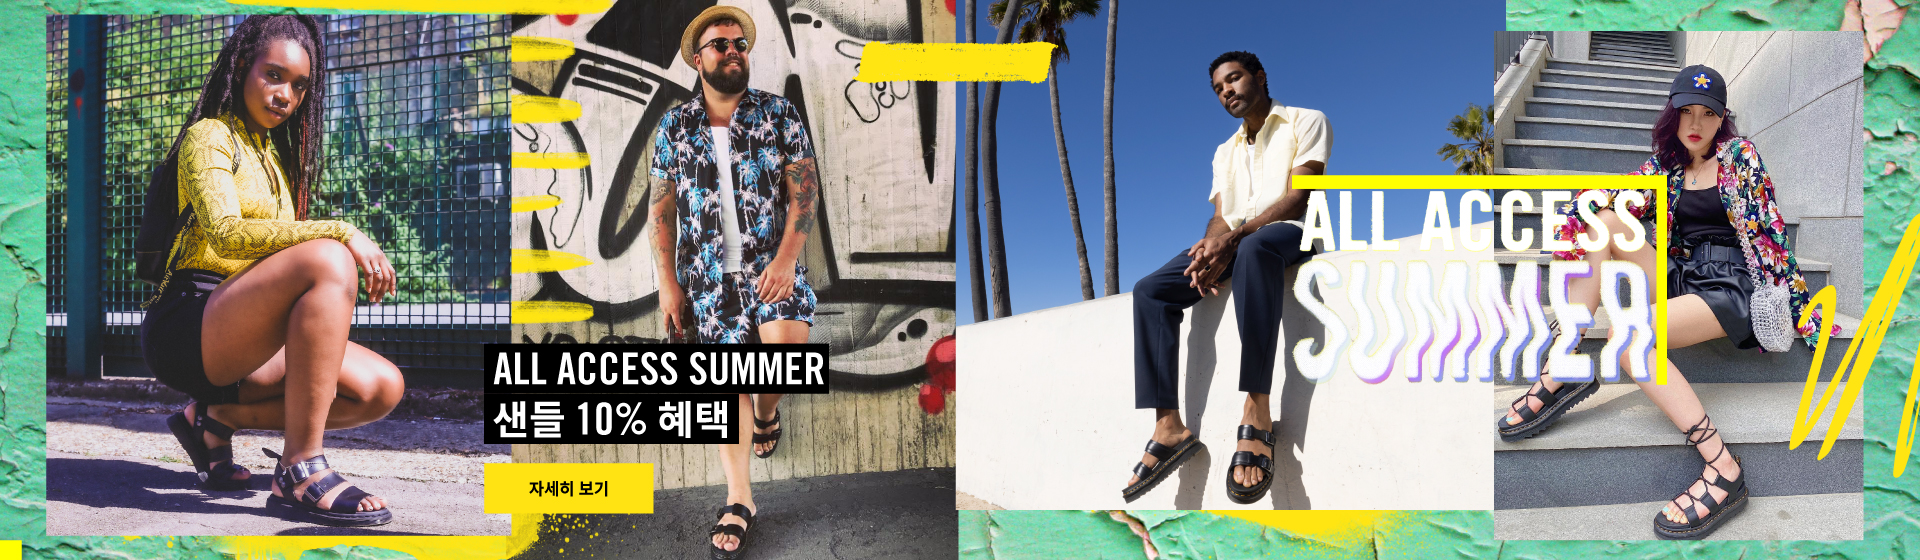
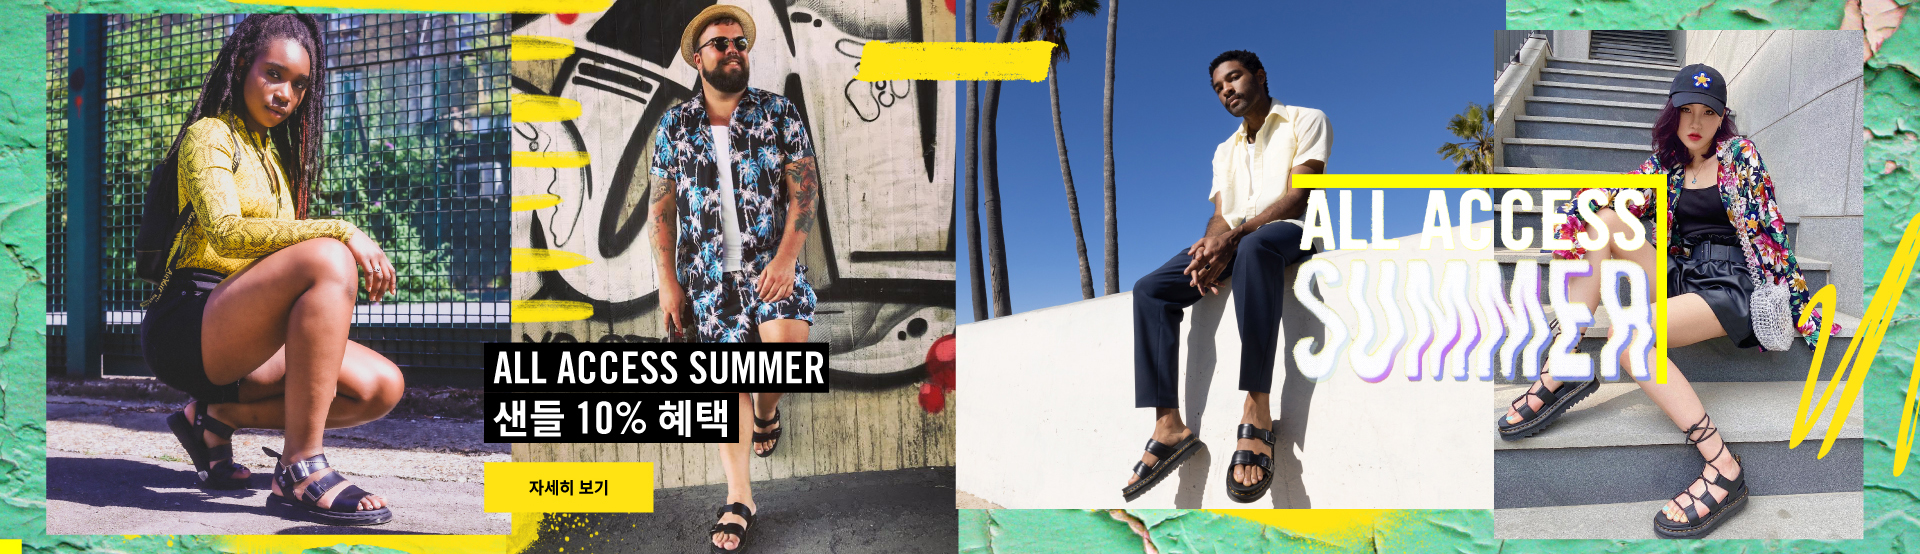
공식 홈페이지 비주얼(슬라이드) 구현

diff --git a/Dr.Martens/src/main/resources/static/js/main.js b/Dr.Martens/src/main/resources/static/js/main.js
@@ -3,4 +3,35 @@ $(function () {
         $(this).children('.sub_wrap').toggleClass('on');
         $(this).toggleClass('on');
     });
+    
+    $('#visual1 .next').on('click', function(){
+        var num = $('.slide_on').index();
+        console.log(num);
+        $('.img_wrap').removeClass('slide_on');
+        $('#visual1 .pgn').removeClass('on');
+        if(num<2){
+            $('.img_wrap').eq(num+1).addClass('slide_on');
+            $('#visual1 .pgn').eq(num+1).addClass('on');
+        } else if(num=3){
+            $('.img_wrap').eq(0).addClass('slide_on');
+            $('#visual1 .pgn').eq(0).addClass('on');
+        }
+    });
+    $('#visual1 .prev').on('click', function(){
+        var num = $('.slide_on').index();
+        console.log(num);
+        $('.img_wrap').removeClass('slide_on');
+        $('#visual1 .pgn').removeClass('on');
+        if(num>0){
+            $('.img_wrap').eq(num-1).addClass('slide_on');
+            $('#visual1 .pgn').eq(num-1).addClass('on');
+        } else if(num<=0){
+            $('.img_wrap').eq(2).addClass('slide_on');
+            $('#visual1 .pgn').eq(2).addClass('on');
+        }
+    });
+    visualAuto = setInterval(function(){
+        $('#visual1 .next').click();
+    }, 5000);
+    
   });

diff --git a/Dr.Martens/src/main/resources/static/css/main.css b/Dr.Martens/src/main/resources/static/css/main.css
@@ -44,8 +44,9 @@ ul, li, ol{list-style: none;}
 
 
 #visual1{position: relative; width: 100%; height: 600px;}
-#visual1 .img_wrap{position: absolute; left: 0; top: 0;}
-#visual1 .img_wrap>img{display: inline; width: 100%;}
+#visual1 .img_wrap{position: absolute; left: 0; top: 0; transition: 0.5s; opacity: 0;}
+#visual1 .img_wrap>img{display: inline; height: 100%;}
+#visual1 .img_wrap.slide_on{opacity: 1;}
 #visual1 .btn_wrap .inner{
     display: flex; flex-direction: row; justify-content: space-between; align-items: center;
     position:absolute; left:50%; top:0; height: 600px; transform: translateX(-50%);

diff --git a/Dr.Martens/src/main/resources/templates/thymeleaf/main/index.html b/Dr.Martens/src/main/resources/templates/thymeleaf/main/index.html
@@ -80,7 +80,7 @@
 </div>
 <div id="visual1">
     <div class="wrap">
-        <div class="img_wrap slide1">
+        <div class="img_wrap slide1 slide_on">
             <img src="/resources/img/main/sl1.jpg" alt="">
         </div>
         <div class="img_wrap slide2">

diff --git a/Dr.Martens/src/main/java/com/ezen/drmarten/service/UserService.java b/Dr.Martens/src/main/java/com/ezen/drmarten/service/UserService.java
@@ -13,18 +13,19 @@ public class UserService {
 
 	@Autowired
 	UserTableRepository rep;
-	public String login(String u_email,String pw , HttpSession session) {
-		Optional<User> user = rep.findById(u_email);
-		User chek = user.get();
-		 if(chek != null && chek.getU_pw().equals(pw)) {
-			 session.setAttribute("u_email", u_email);
-			 System.out.println(session.getAttribute("u_email"));
-			 return "<script>" + "alert('성공');"  + "</script>";
-			 }
-		 if(chek != null && !(chek.getU_pw().equals(pw)))  
-			 return "<script>" + "alert('비밀번호 틀림 ');"  + "</script>";
-		 return "<script>" + "alert('없는 아이디 ');"  + "</script>";
-	}
+	//마찬가지로서버가안돌아가서 주석처리해뒀어요
+//	public String login(String u_email,String pw , HttpSession session) {
+//		Optional<User> user = rep.findById(u_email);
+//		User chek = user.get();
+//		 if(chek != null && chek.getU_pw().equals(pw)) {
+//			 session.setAttribute("u_email", u_email);
+//			 System.out.println(session.getAttribute("u_email"));
+//			 return "<script>" + "alert('성공');"  + "</script>";
+//			 }
+//		 if(chek != null && !(chek.getU_pw().equals(pw)))  
+//			 return "<script>" + "alert('비밀번호 틀림 ');"  + "</script>";
+//		 return "<script>" + "alert('없는 아이디 ');"  + "</script>";
+//	}
 	public boolean id_check(String u_id) {
 		int i = rep.findByU_id(u_id);
 		if(i > 0) {

diff --git a/Dr.Martens/src/main/java/com/ezen/drmarten/controller/UserController.java b/Dr.Martens/src/main/java/com/ezen/drmarten/controller/UserController.java
@@ -40,15 +40,16 @@ public class UserController {
 	public String login_form() {
 		return"/user/login";
 	}
-	@PostMapping("/login")
-	@ResponseBody
-	public String login(@RequestParam("u_email") String u_email, @RequestParam("u_pw")String u_pw, HttpSession session) {
-		
-	
-		String  checked = svc.login(u_email,u_pw, session);
-		log.debug("session = {}", session.getAttribute("u_email"));
-		return  checked;
-	}
+// 현지 : 서버가 안돌아가서 잠시 주석처리해뒀어요
+//	@PostMapping("/login")
+//	@ResponseBody
+//	public String login(@RequestParam("u_email") String u_email, @RequestParam("u_pw")String u_pw, HttpSession session) {
+//		
+//	
+//		String  checked = svc.login(u_email,u_pw, session);
+//		log.debug("session = {}", session.getAttribute("u_email"));
+//		return  checked;
+//	}
 	@GetMapping("/find_id")
 	public String find_id_form() {
 		return"/user/find_id";

diff --git a/Dr.Martens/src/main/java/com/ezen/drmarten/controller/AdminController.java b/Dr.Martens/src/main/java/com/ezen/drmarten/controller/AdminController.java
@@ -51,7 +51,7 @@ public class AdminController {
 	public String login(@RequestParam("id")String id, @RequestParam("pw")String pw, Model model) {
 		if(id.equals("admin")&&pw.equals("dr1234")) {
 			java.time.LocalDateTime time = LocalDateTime.now();
-			DateTimeFormatter formatter = DateTimeFormatter.ofPattern("yyyy/mm/dd HH시 mm분 ss초");
+			DateTimeFormatter formatter = DateTimeFormatter.ofPattern("yyyy/MM/dd HH시 mm분 ss초");
 			String sTime = time.format(formatter);
 			session.setAttribute("time", sTime);
 			return "redirect:/admin/main";
